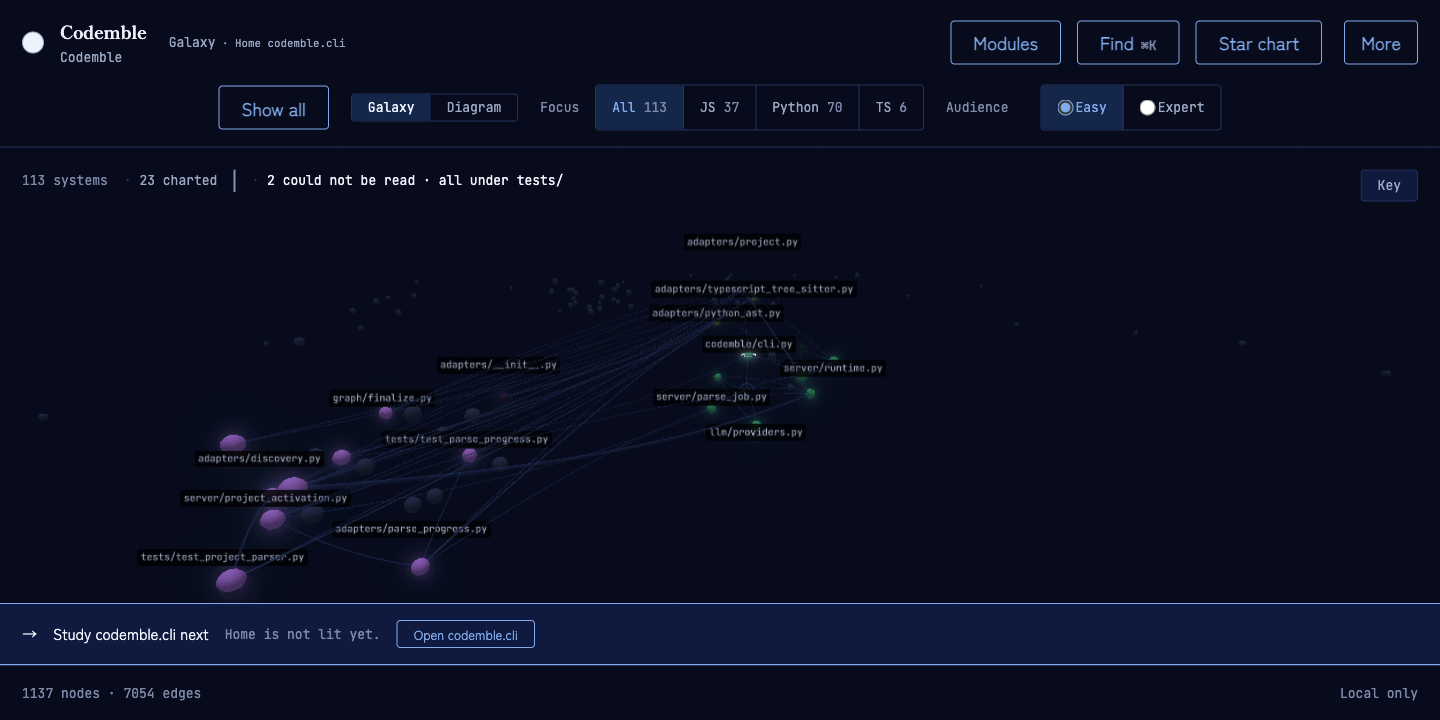
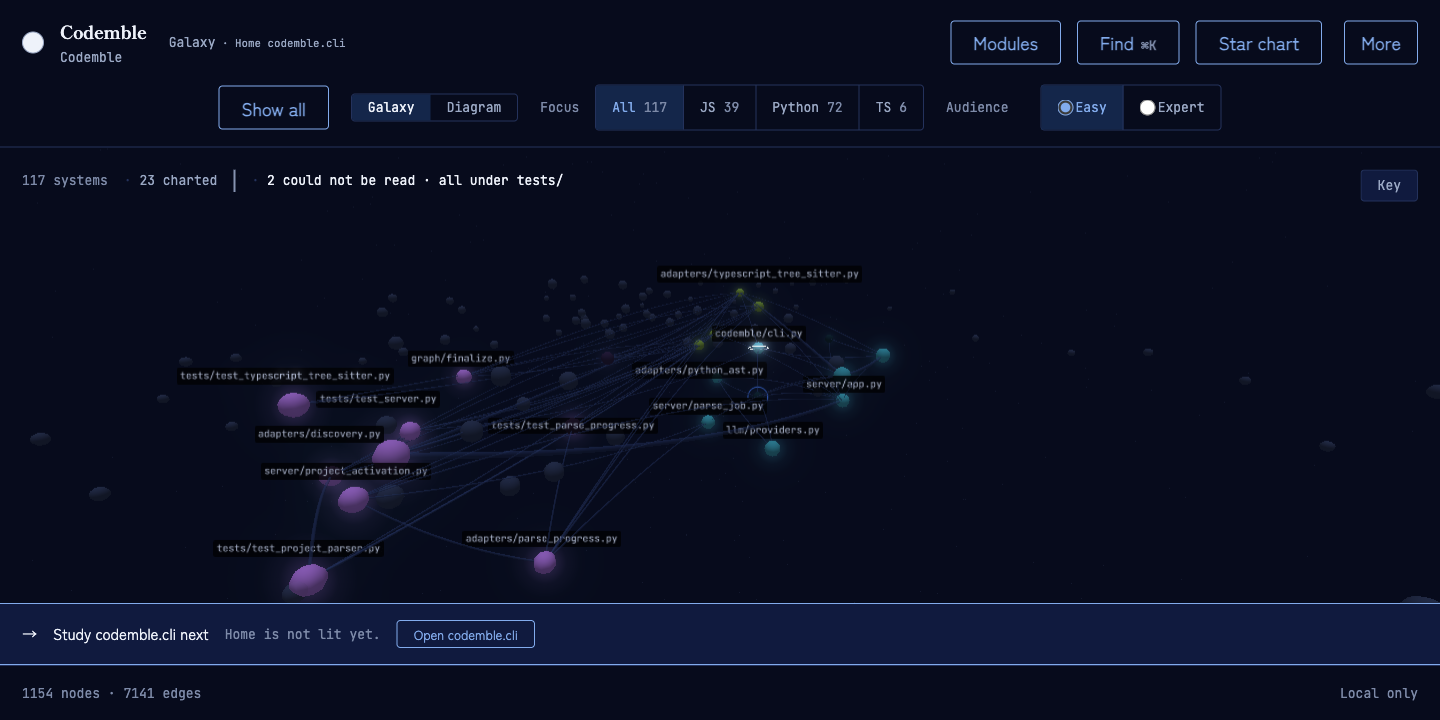
docs: recapture the shots on the denser galaxy
Three fixes since the last recapture are all visible in these frames: colour
families now name the eight largest import communities instead of wrapping
`community % 8` onto each other, unproven routes are dashed rather than only
recoloured, and constellation spacing is tied to region spacing so the galaxy
is no longer 98.7% empty.

Captured per the approved recapture spec: whole repository, 1440x720
viewport-clipped, Home `codemble.cli` on every frame, seven shots in the
documented layer/audience/level matrix. `loading.png` stays untouched, as that
spec decided.

galaxy-lit.png is genuinely earned rather than staged: this project's progress
was cleared, then all four of `codemble.cli`'s graph checks were answered
correctly through the real submit endpoint, so Home is amber and the guidance
chip has moved on to `codemble.adapters.project` — a true before/after pair
with galaxy.png.

Quoted counts refreshed against the live parse (117 regions, 1154 nodes, 7141
edges): 113 -> 117 star systems in the README hero and the-galaxy.md, and 84 ->
88 modules with no proven import route in the Atlas Journey alt. 31 structures,
`app.py:85`, 257 lines and 53 callers were re-measured and are unchanged.

Verified: pytest, ruff, 11 frontend contract suites, astro check and build, and
the landing atlas plate read through all four frames at 1440 and 390 with every
shown frame loaded, intrinsic size matching its width/height attributes, and no
sideways scroll.

diff --git a/docs-site/src/content/docs/the-galaxy.md b/docs-site/src/content/docs/the-galaxy.md
@@ -5,7 +5,7 @@ description: How your code becomes a sky — and why the camera stays on rails.
 
 ## Your code, mapped honestly
 
-![Codemble at galaxy level on a first run: 113 star systems parsed from real source, 23 of them charted and named by their file path, constellations wearing their import-community colour families in traditional Japanese hues around an as-yet unlit Home, with the language focus buttons, a Key disclosure, a notice that two files could not be read — all under tests/ — and a prompt to study codemble.cli next.](/Codemble/shots/galaxy.png)
+![Codemble at galaxy level on a first run: 117 star systems parsed from real source, 23 of them charted and named by their file path, constellations wearing their import-community colour families in traditional Japanese hues around an as-yet unlit Home, with the language focus buttons, a Key disclosure, a notice that two files could not be read — all under tests/ — and a prompt to study codemble.cli next.](/Codemble/shots/galaxy.png)
 
 The galaxy is not an artist's impression. Every visual property encodes a fact
 from the parsed structure of your code:

diff --git a/README.md b/README.md
@@ -34,7 +34,7 @@
 </p>
 
 <p align="center">
-  <img src="https://github.com/udhawan97/Codemble/raw/main/docs-site/public/shots/galaxy.png" alt="Codemble at galaxy level on a first run: 113 star systems parsed from real source, 23 charted and named by file path, constellations wearing their import-community colour families in traditional Japanese hues around an as-yet unlit Home, with language focus buttons, a Key disclosure, a notice that two files could not be read — all under tests/ — and a prompt to study codemble.cli next" width="960">
+  <img src="https://github.com/udhawan97/Codemble/raw/main/docs-site/public/shots/galaxy.png" alt="Codemble at galaxy level on a first run: 117 star systems parsed from real source, 23 charted and named by file path, constellations wearing their import-community colour families in traditional Japanese hues around an as-yet unlit Home, with language focus buttons, a Key disclosure, a notice that two files could not be read — all under tests/ — and a prompt to study codemble.cli next" width="960">
 </p>
 
 <p align="center"><sub>
